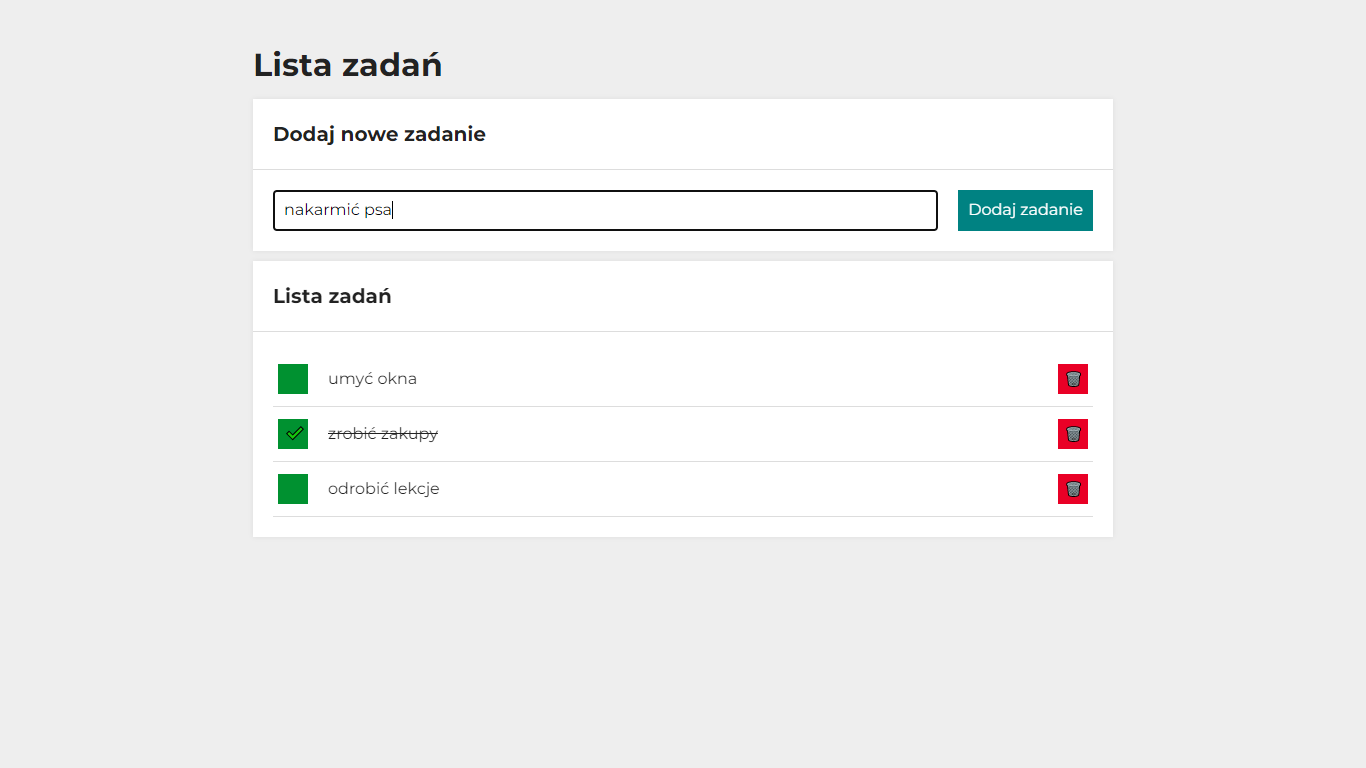
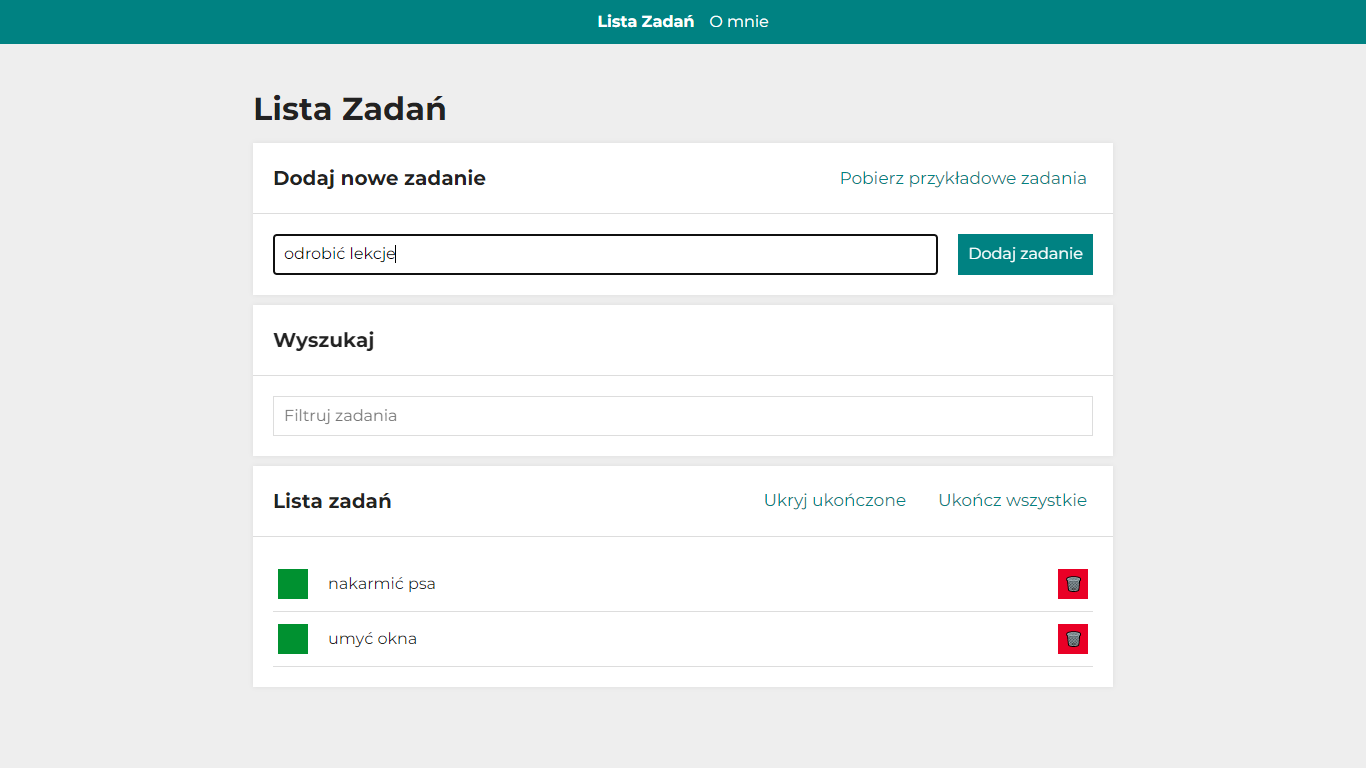
updated readme file

diff --git a/README.md b/README.md
@@ -4,7 +4,17 @@
 [click to visit](https://radekw86.github.io/to-do-list/)
 
 ## General info:
-This app allows user to create a task list, mark tasks done/undone and remove tasks from the list. The operation is performed via functional buttons and a form. The data is stored in the Local Storage.
+This app allows user to create a task list. The functionality involves:
+<ul>
+<li>adding new tasks</li>
+<li>marking tasks done/undone</li>
+<li>removing tasks from the list</li>
+<li>viewing task details</li>
+<li>filtering tasks</li>
+<li>geting example tasks from a JSON file</li>
+</ul>
+ The operation is performed via functional buttons and a form. The data is stored in the Local Storage.
+ Additionally, the "about me" page is accessible via top navigation bar.
 
 ## Technologies:
 <ul>
@@ -12,7 +22,8 @@ This app allows user to create a task list, mark tasks done/undone and remove ta
 <li>JS ES6+</li>
 <li>React.js</li>
 <li>Styled Components</li>
-<li>Redux</li>
+<li>Redux, Redux-saga</li>
+<li>React Router</li>
 </ul>
 
 ## Preview:
